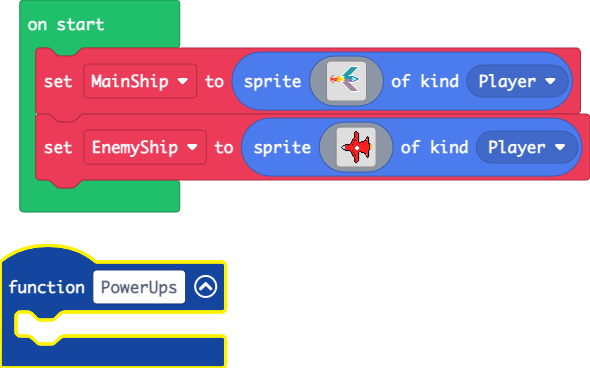
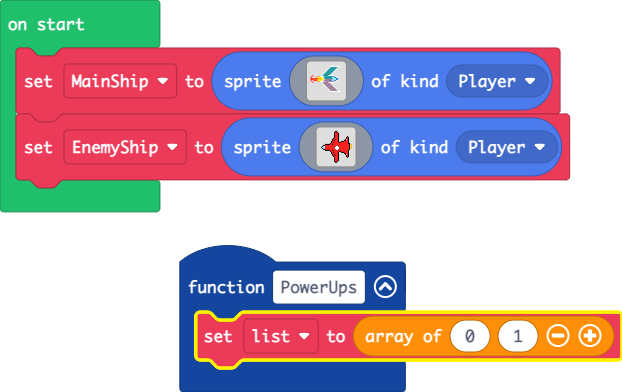
Update main.blocks, main.ts

diff --git a/main.ts b/main.ts
@@ -1,6 +1,7 @@
 function PowerUps () {
-	
+    list = [0, 1]
 }
+let list: number[] = []
 let MainShip = sprites.create(assets.image`Civilianship`, SpriteKind.Player)
 let EnemyShip = sprites.create(img`
     ...............ff...............
